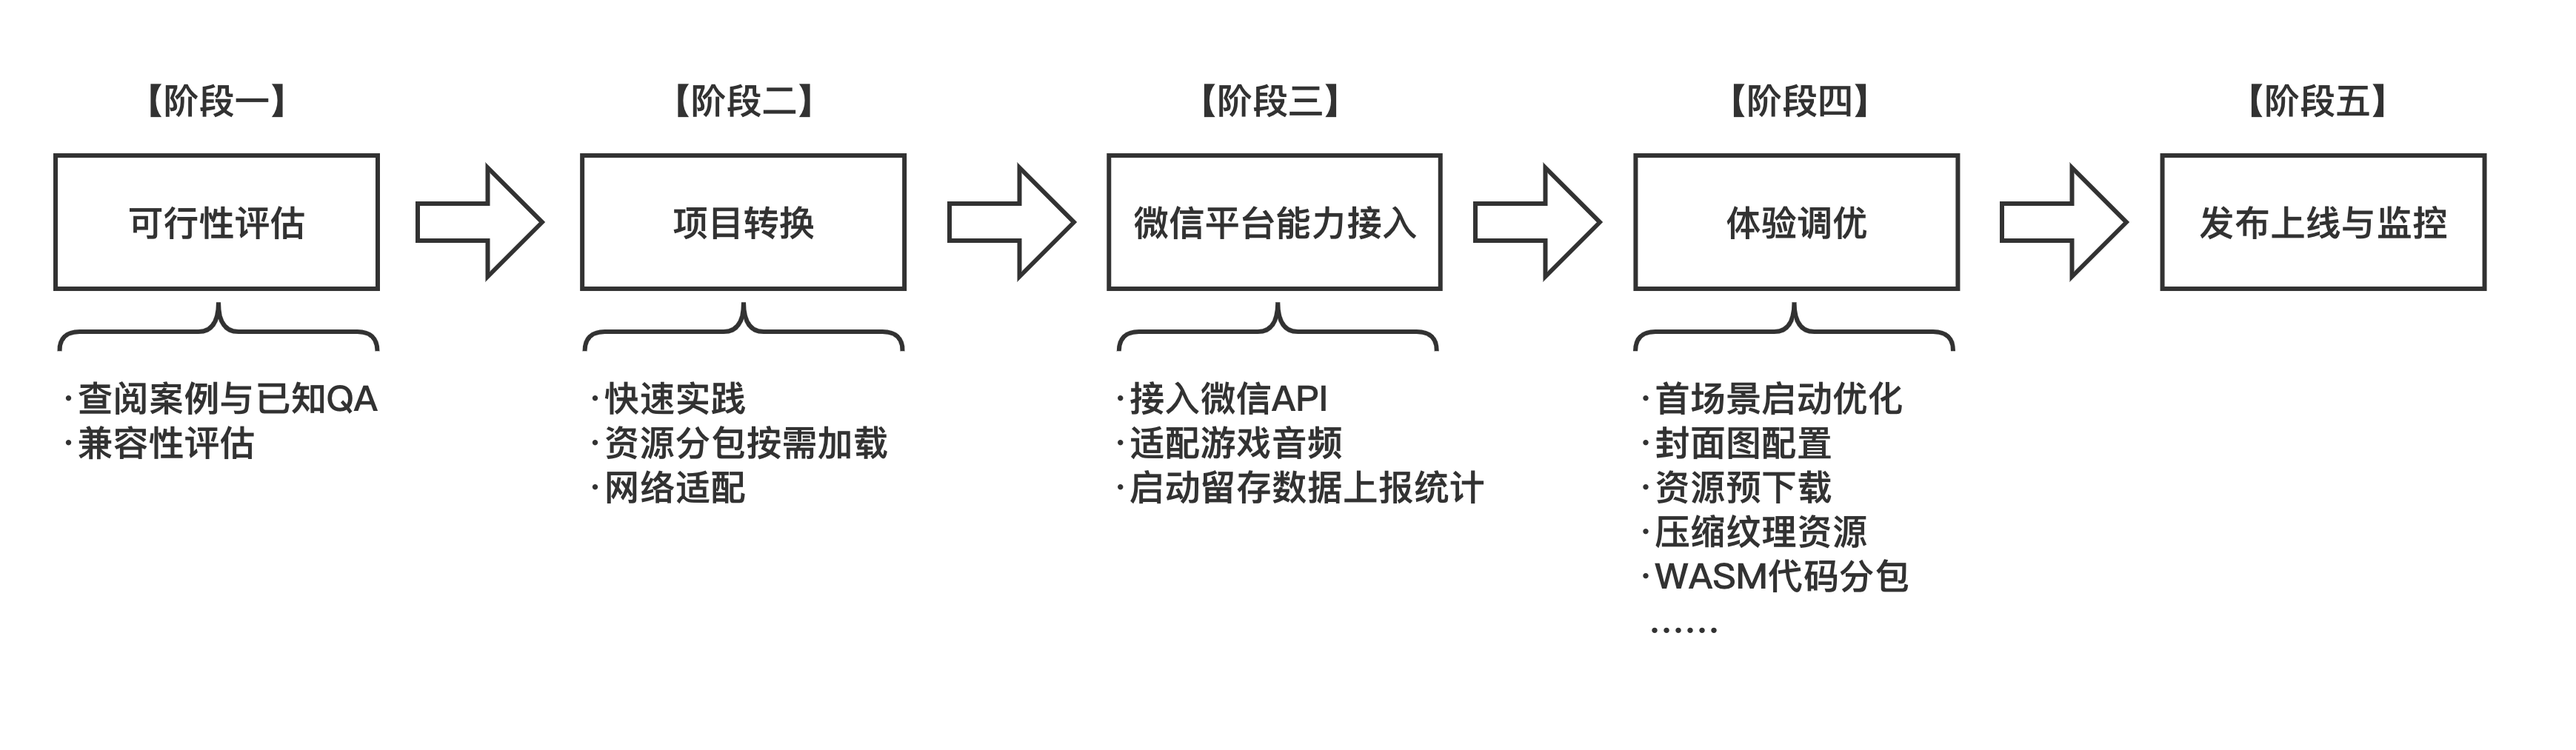
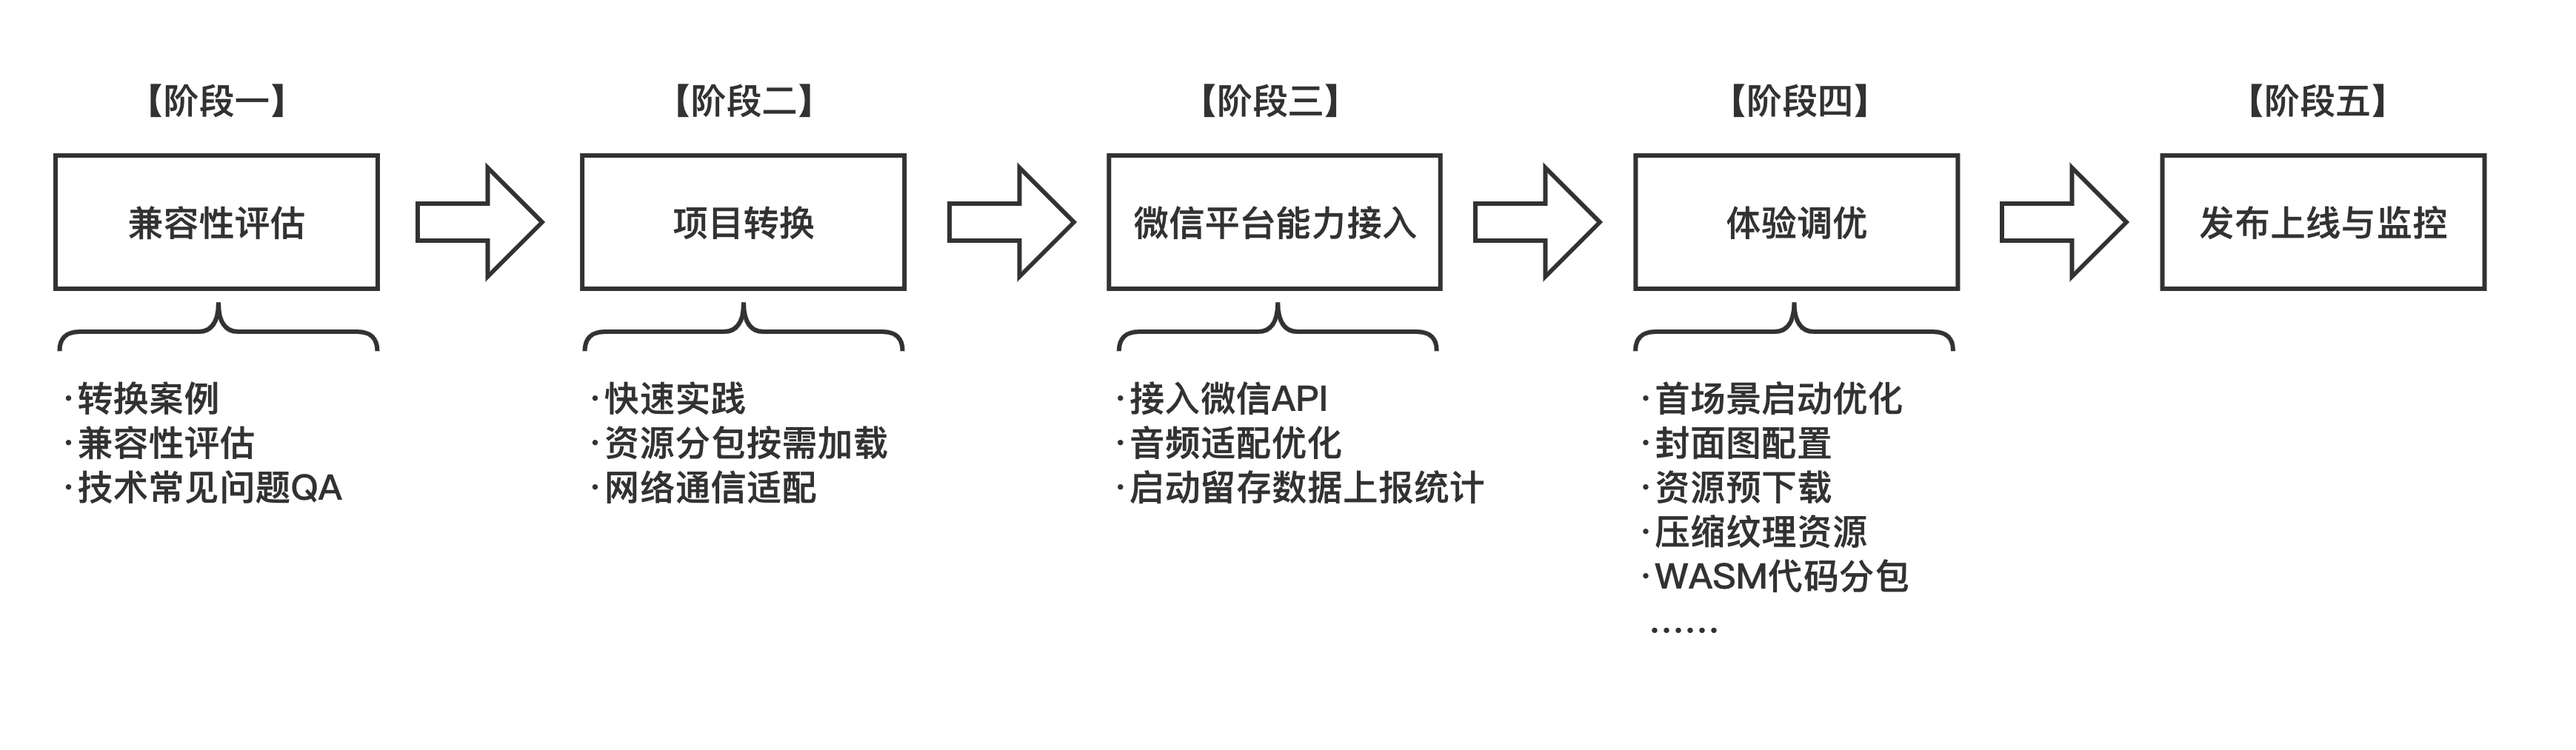
docs: Unity convert guide

diff --git a/Design/Guide.md b/Design/Guide.md
@@ -4,7 +4,7 @@
 
 ![Unity快适配调优指南](../image/guide/guide1.png)
 
-- [【阶段一】可行性评估](#阶段一可行性评估)
+- [【阶段一】兼容性评估](#阶段一兼容性评估)
 - [【阶段二】项目转换](#阶段二项目转换)
 - [【阶段三】微信平台能力接入](#阶段三微信平台能力接入)
 - [【阶段四】体验调优](#阶段四体验调优)
@@ -12,7 +12,7 @@
 
 
 
-## 【阶段一】可行性评估
+## 【阶段一】兼容性评估
 
 > 相关手册：[兼容性评估](Evaluation.md) 、[更多小游戏成功转换案例](ShowCase.md) 、[技术常见问题QA](DevelopmentQAList.md)
 
